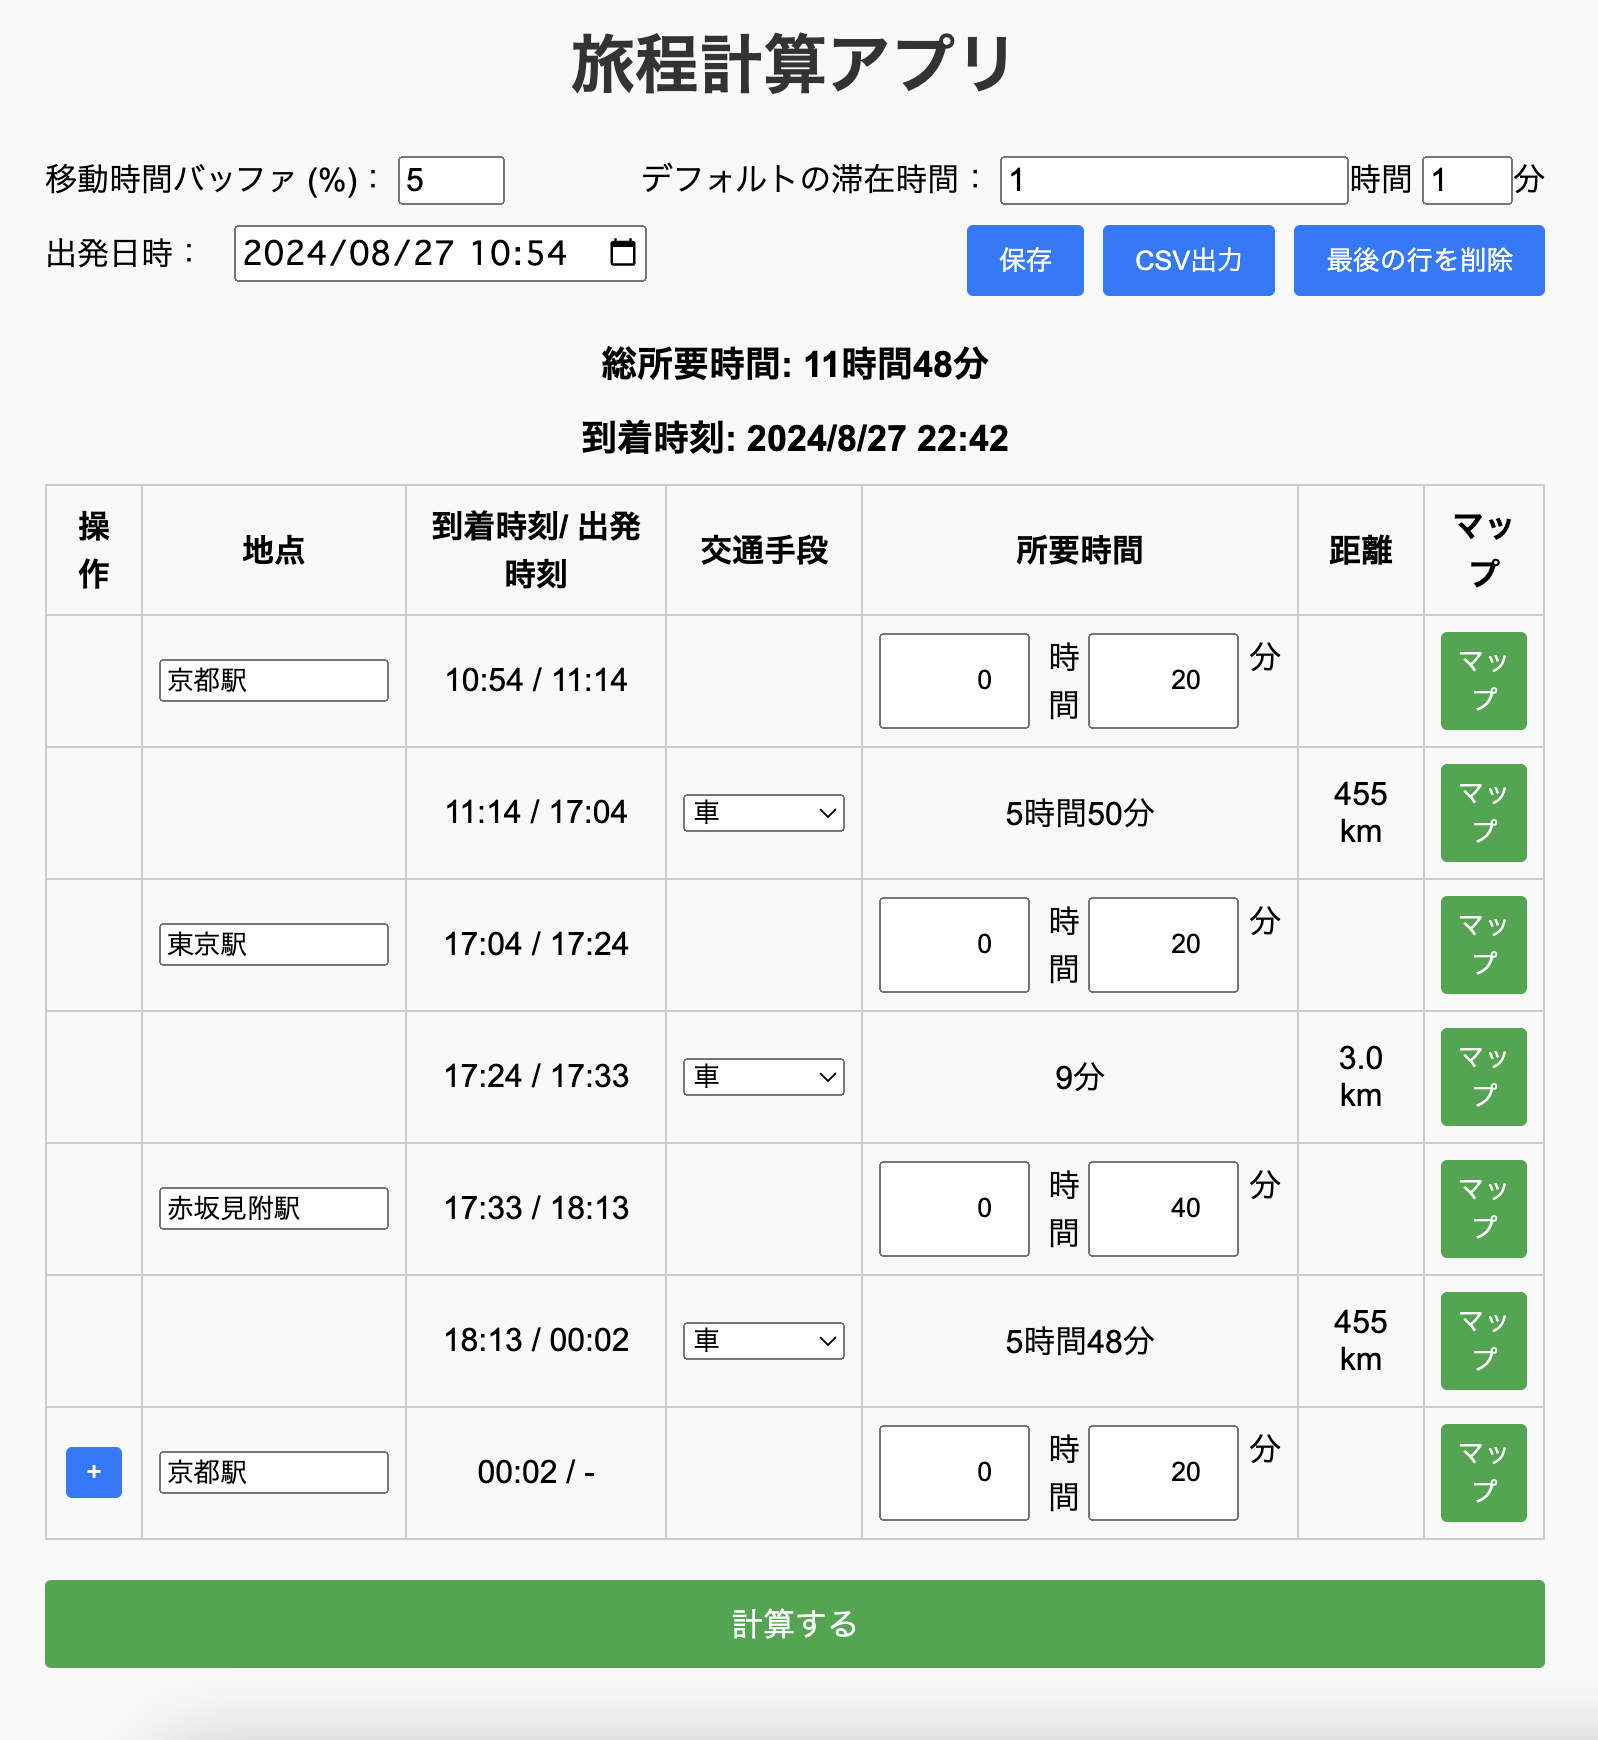
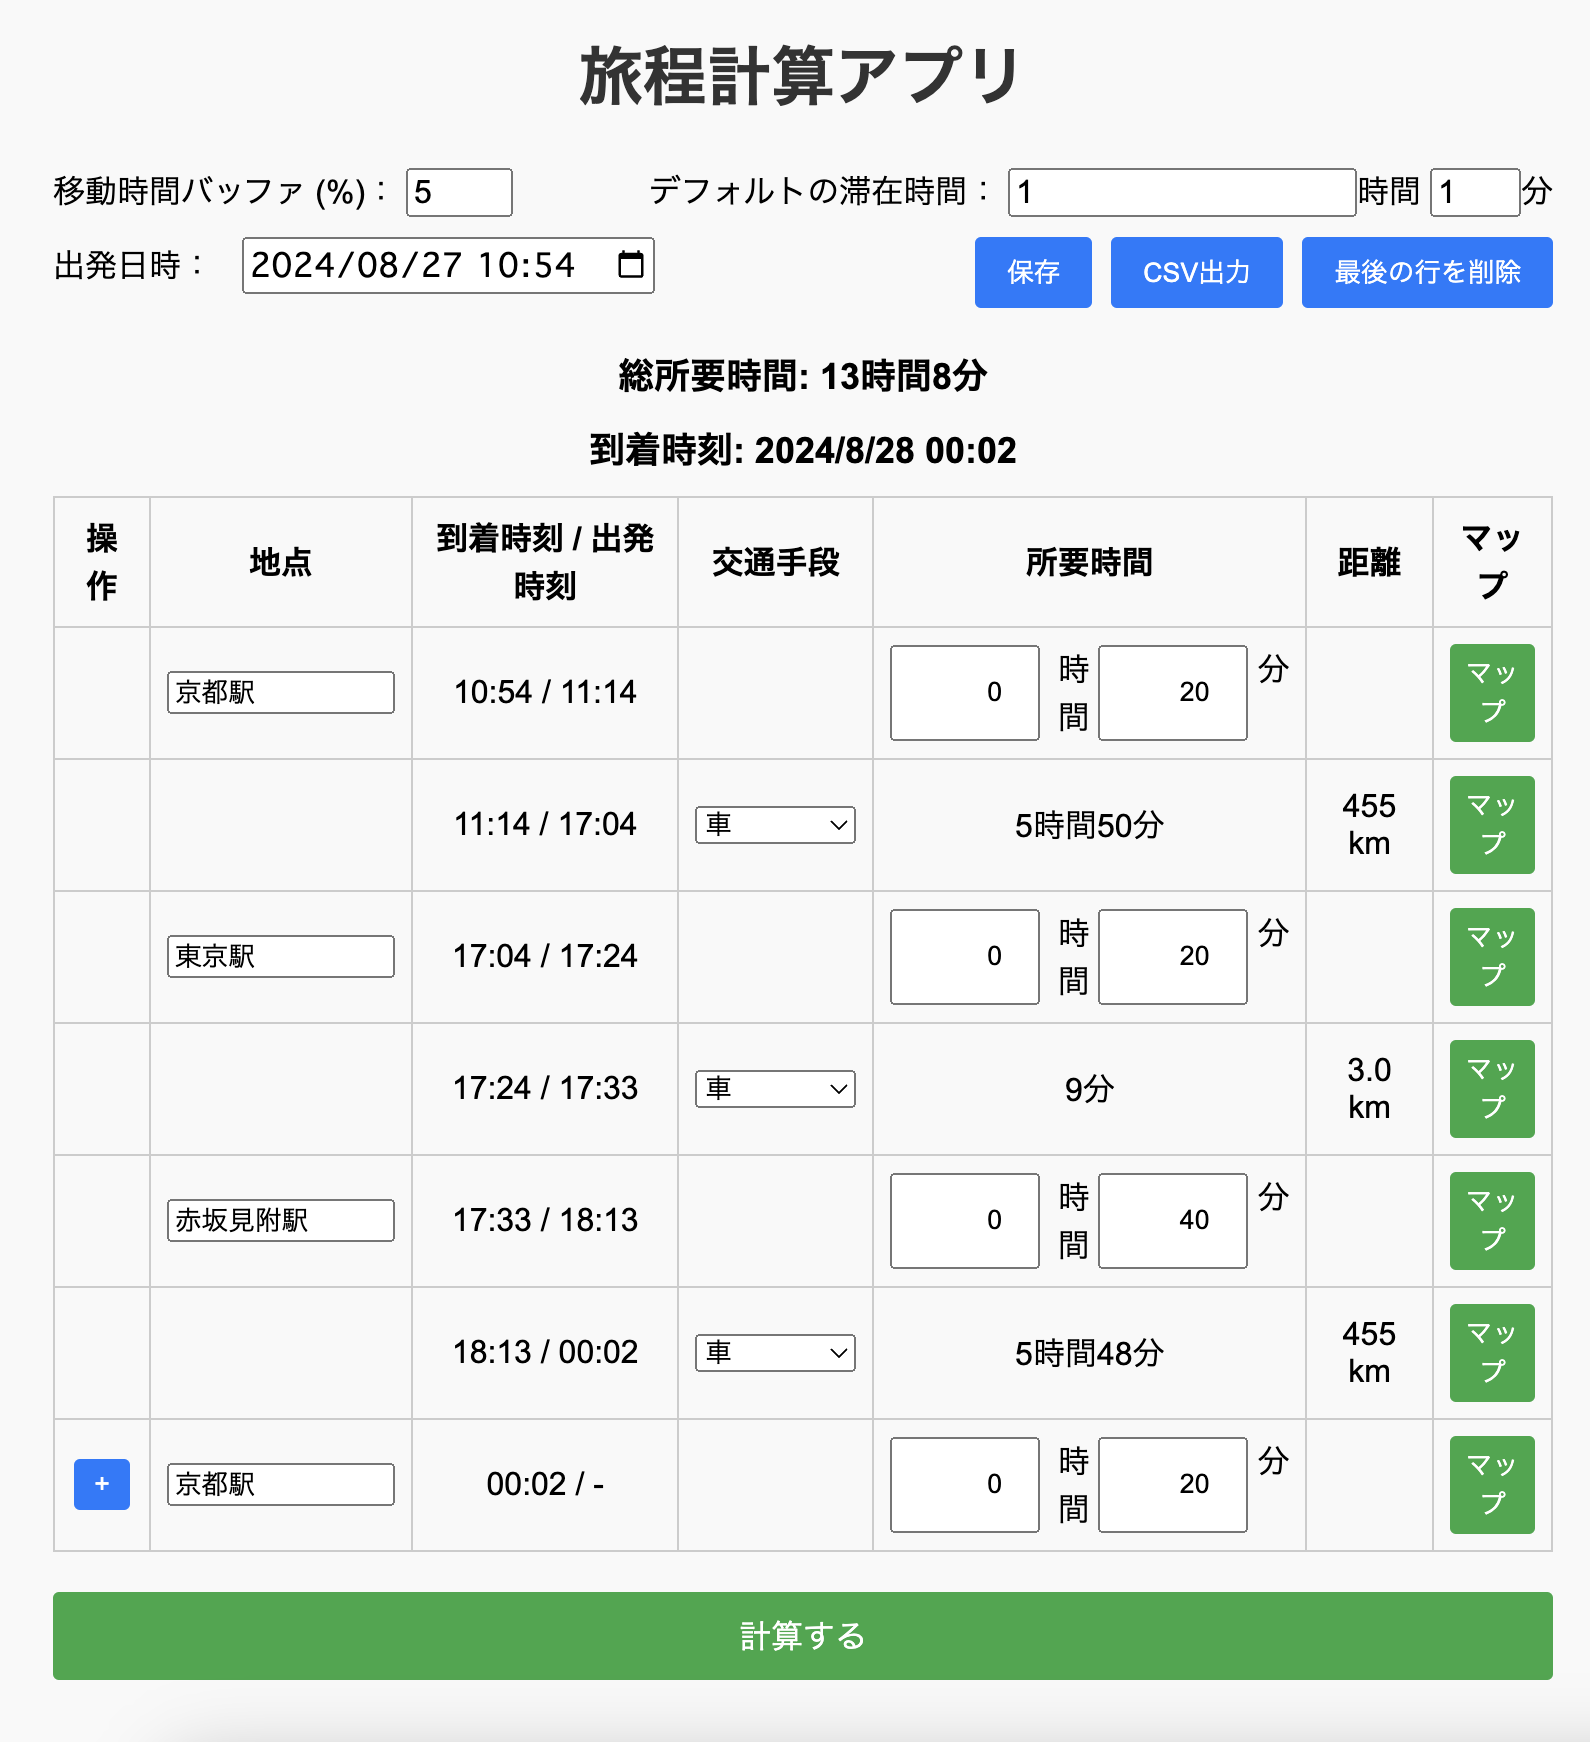
課題 最終版

diff --git a/travel-scheduler-calc-app/index.html b/travel-scheduler-calc-app/index.html
@@ -223,14 +223,14 @@
             </div>
         </div>
     </div>
-    <div id="totalTime">総移動時間: 0分</div>
+    <div id="totalTime">総所要時間: 0分</div>
     <div id="finalArrivalTime">到着時刻: -</div>
     <table id="itineraryTable">
         <thead>
             <tr>
                 <th>操作</th>
                 <th>地点</th>
-                <th>到着時刻/ 出発時刻</th>
+                <th>到着時刻 / 出発時刻</th>
                 <th>交通手段</th>
                 <th>所要時間</th>
                 <th>距離</th>
@@ -562,6 +562,7 @@
                 const stayHours = document.getElementById(`stayHours${i}`).value;
                 const stayMinutes = document.getElementById(`stayMinutes${i}`).value;
                 const stayTimeSeconds = (parseInt(stayHours) * 3600) + (parseInt(stayMinutes) * 60);
+                totalTimeSeconds += stayTimeSeconds;
 
                 const origin = locations[i].value;
                 const destination = locations[i + 1].value;
